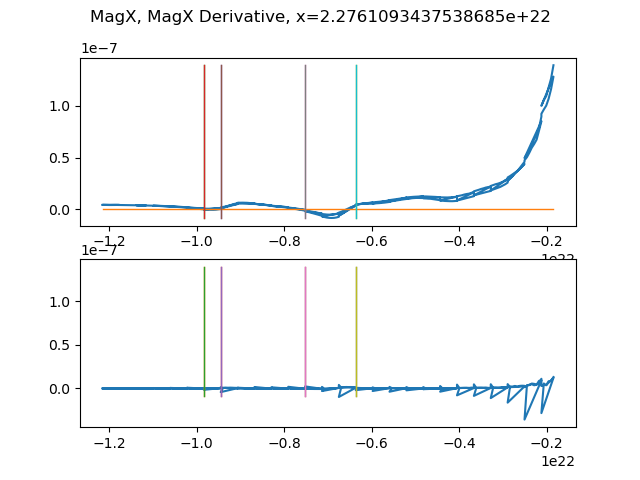
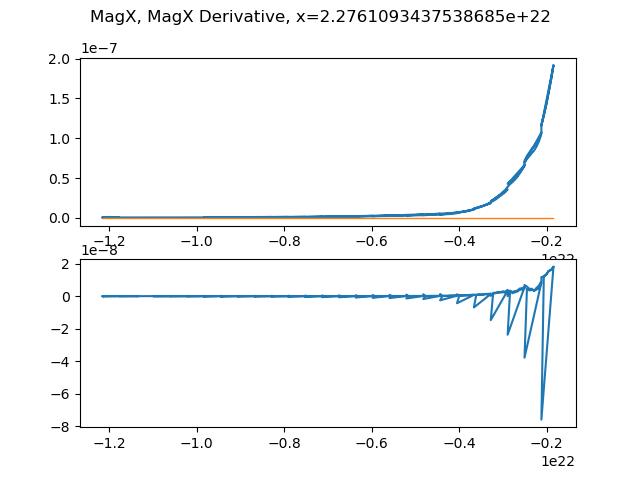
Split 2D detection, now testing.

diff --git a/BubbleVelocity_SignFlip.py b/BubbleVelocity_SignFlip.py
@@ -153,22 +153,22 @@ for t in range(65, 85):
     untrimmed.append([zeroIndex, magDerivative[zeroIndex]])
     trimmed.append([zeroIndexTrimmed, magDerivative[zeroIndexTrimmed]])
     
-    # # Make a line plot
-    # fig, ax = plt.subplots(2)
-    # fig.suptitle('Zero intercepts, t='+ str(t) +', x='+str(x))
-    # ax[0].plot(ySlice, magSlice)
-    # ax[0].plot([max(ySlice), min(ySlice)], [0, 0], lw=1)
-    # for y in ySlice[zeroIndex]:
-    #     ax[0].plot([y, y], [np.min(magSlice), np.max(magSlice)], lw=1) #lines [x1, x2] [y1, y2]
-    #     ax[0].plot([y, y], [np.min(magSlice), np.max(magSlice)], lw=1) 
-    # ax[1].plot(ySlice, magSlice)
-    # ax[1].plot([max(ySlice), min(ySlice)], [0, 0], lw=1)
-    # for y in ySlice[zeroIndexTrimmed]:
-    #     ax[1].plot([y, y], [np.min(magSlice), np.max(magSlice)], lw=1) #lines [x1, x2] [y1, y2]
-    #     ax[1].plot([y, y], [np.min(magSlice), np.max(magSlice)], lw=1) 
+    # Make a line plot
+    fig, ax = plt.subplots(2)
+    fig.suptitle('Zero intercepts, t='+ str(t) +', x='+str(x))
+    ax[0].plot(ySlice, magSlice)
+    ax[0].plot([max(ySlice), min(ySlice)], [0, 0], lw=1)
+    for y in ySlice[zeroIndex]:
+        ax[0].plot([y, y], [np.min(magSlice), np.max(magSlice)], lw=1) #lines [x1, x2] [y1, y2]
+        ax[0].plot([y, y], [np.min(magSlice), np.max(magSlice)], lw=1) 
+    ax[1].plot(ySlice, magSlice)
+    ax[1].plot([max(ySlice), min(ySlice)], [0, 0], lw=1)
+    for y in ySlice[zeroIndexTrimmed]:
+        ax[1].plot([y, y], [np.min(magSlice), np.max(magSlice)], lw=1) #lines [x1, x2] [y1, y2]
+        ax[1].plot([y, y], [np.min(magSlice), np.max(magSlice)], lw=1) 
     
-    # fig.savefig(pwd + "/bubble_velocity/col12_t" + str(t))
-    # plt.close()
+    fig.savefig(pwd + "/bubble_velocity_2D/col12_t" + str(t))
+    plt.close()
     
     # #plot slice in yt
     # ds = yt.load(filename)
@@ -361,118 +361,3 @@ for t in range(75, 85):
 # fig.show()
 # slc.display()
 
-#%%
-
-
-
-#####################
-# 2D BUBBLE DETECTION
-#####################
-
-
-#Columns are labeled 1-12 left to right up/down/up/down etc
-colXbounds = [(0, 0),                       #empty b/c I started at 1
-              (-2.41E+22,   -1.97E+22),     #1
-              (-2.21E+22,   -1.5E+22),      #2
-              (-1.97E+22,   -1.01E+22),     #3
-              (-1.11E22,    -6.28E+21),     #4
-              (-8.32E+21,   -1.65E+20),     #5
-              (-2.69E21,    2E+21),         #6
-              (-1.65E+20,   7.16E21),       #7
-              (2.62E21,     1.04E+22),      #8
-              (8.05E+21,    1.64E+22),      #9
-              (7.715E+21,   1.8516E+22),    #10
-              (1.29E+22,    2.2E+22),       #11
-              (2.1E+22,     2.5E+22)]       #12
-#column widths:
-# colWidth = [0,
-#  4.4e+21,
-#  7.01e+21,
-#  9.6e+21,
-#  4.82e+21,
-#  8.155e+21,
-#  4.69e+21,
-#  7.325e+21,
-#  7.78e+21,
-#  8.35e+21,
-#  1.08e+22,
-#  9.1e+21,
-#  4e+21]
-#%%
-### YT annotate lines to visualize where these lineplots are
-numlines = 15 #number of lines to the left of x
-ylim = -1.79040182984184e21
-bounds = {'xmin': 2.1*pow(10, 22), 'xmax': 2.5*pow(10, 22), 'ymin': float(min(ad['y']).value),'ymax': ylim}
-dsSelect = ad.include_inside('x', bounds['xmin'], bounds['xmax'])
-dsSelect = dsSelect.include_inside('y', bounds['ymin'], bounds['ymax'])  
-slc = yt.SlicePlot(ds, 'z', 'temp',  data_source=dsSelect,
-                   center=( np.sum([bounds['xmin'], bounds['xmax']])/2, np.sum([bounds['ymin'], bounds['ymax']])/2, 0))
-slc.set_width(max([ abs(bounds['xmax']-bounds['xmin']), abs(bounds['ymax']-bounds['ymin']) ]))
-shortX = removeDuplicates(out['posXarray']) #do this ONCE now to save time
-x = closestNum(shortX, 2.38*pow(10, 22) - (numlines*dx), removeDuplicates=False) #2.320198554 is good for col 12
-# slc.annotate_grids()
-# slc.annotate_cell_edges(line_width = 0.00001, alpha = 0.5)
-
-textx = x + (10**21)
-for t in range(1, numlines):
-    slc.annotate_line((x, -1.8*(10**21), 0), (x, -1.23*(10**22), 0), coord_system="data",  plot_args={"color": "blue"})
-    slc.annotate_marker((x, (-2-0.5*t)*(10**21), 0), coord_system="data", plot_args={"color": "red"})
-    slc.annotate_text((textx, (-2-0.5*t)*(10**21), 0), str(x), coord_system="data", text_args={"color": "red"})
-    x = closestNum(shortX, x + dx, removeDuplicates=False)
-slc.save(pwd + "/bubble_velocity_2D/line_annotations")
-slc.display()
-
-#%%
-#rebuild the lineplot code
-out = hdf5_parser.setup(filename)
-x = est.closestNum(out['posXarray'], 2.32838*pow(10, 22) - (5*dx)) #2.320198554 is good for col 12
-plt.clf()
-
-# TFselect = np.logical_and((out['posXarray'] == x), (out['posYarray']<ylim))
-# ySlice = out['posYarray'][TFselect]    
-TFselect = np.logical_and((out['posXarray'] == x), (out['posYarray']<ylim), (out['posYarray']>ymin))
-ySlice = out['posYarray'][TFselect] #this is in order
-magSlice = out['magXarray'][TFselect]
-ySlice.sort()
-plt.plot(ySlice, magSlice)
-plt.savefig(pwd + "/bubble_velocity/SliceA")
-
-#%%
-### Try a detection little left or right
-# lev = np.logspace(np.log10(out['densityArray'].min()), np.log10(out['densityArray'].max()), num=1000)
-# plt.tricontourf(out['posXarray'], out['posYarray'], out['densityArray'], locator=ticker.LogLocator(), levels = lev) #good for irregular Z values
-
-x = est.closestNum(out['posXarray'], 2.32838*pow(10, 22) - (5*dx)) #2.320198554 is good for col 12
-# x = est.closestNum(out['posXarray'], -4.211*(10**21) - (5*dx)) #col 2
-plt.clf()
-for t in range(1, 10):
-    print("("+ str(t) + ", " + str(x) +")")
-    TFselect = np.logical_and((out['posXarray'] == x), (out['posYarray']<ylim), (out['posYarray']>ymax))
-    ySlice = out['posYarray'][TFselect]    
-    magSlice = out['magXarray'][TFselect]
-    zeroIndex = est.findSignFlips(magSlice)
-    magDerivative = np.diff(magSlice, axis=0)
-    magDerivative = np.insert(magDerivative, 0, 0)
-    
-    zeroIndexTrimmed = []
-    for index in zeroIndex:
-        avgSlope = 0.5*(out['magXarray'][index-1]-out['magXarray'][index+1])
-        if avgSlope > 5*(10**-11): zeroIndexTrimmed = np.append(zeroIndexTrimmed, index)
-    zeroIndexTrimmed = np.asarray(zeroIndexTrimmed, dtype=int)
-    
-    fig, axs = plt.subplots(2)
-    fig.suptitle('MagX, MagX Derivative, x='+str(x))
-    axs[0].plot(ySlice, magSlice)
-    axs[0].plot([max(ySlice), min(ySlice)], [0, 0], lw=1)
-    axs[1].plot(ySlice, magDerivative)
-    for y in ySlice[zeroIndexTrimmed]:
-        axs[0].plot([y, y], [np.min(magSlice), np.max(magSlice)], lw=1) #lines [x1, x2] [y1, y2]
-        axs[0].plot([y, y], [np.min(magSlice), np.max(magSlice)], lw=1)
-        axs[1].plot([y, y], [np.min(magSlice), np.max(magSlice)], lw=1) #lines [x1, x2] [y1, y2]
-        axs[1].plot([y, y], [np.min(magSlice), np.max(magSlice)], lw=1)
-        
-    fig.savefig(pwd + "/bubble_velocity/Slice" + str(t))
-    plt.close()
-    
-    #prep for next loop
-    x = est.closestNum(out['posXarray'], x + dx)
